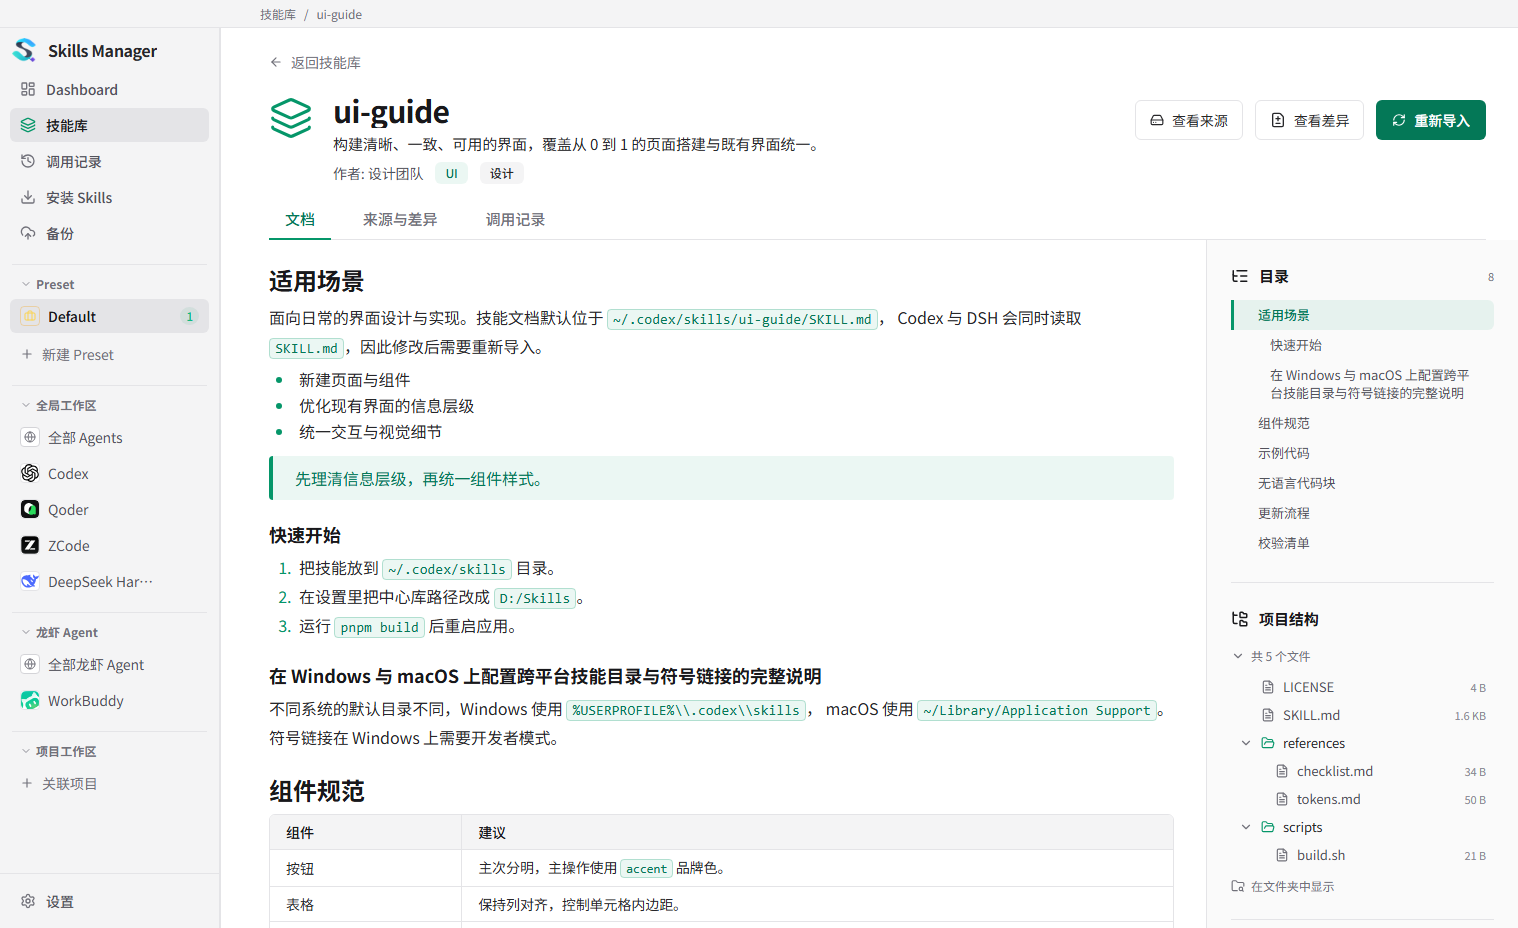
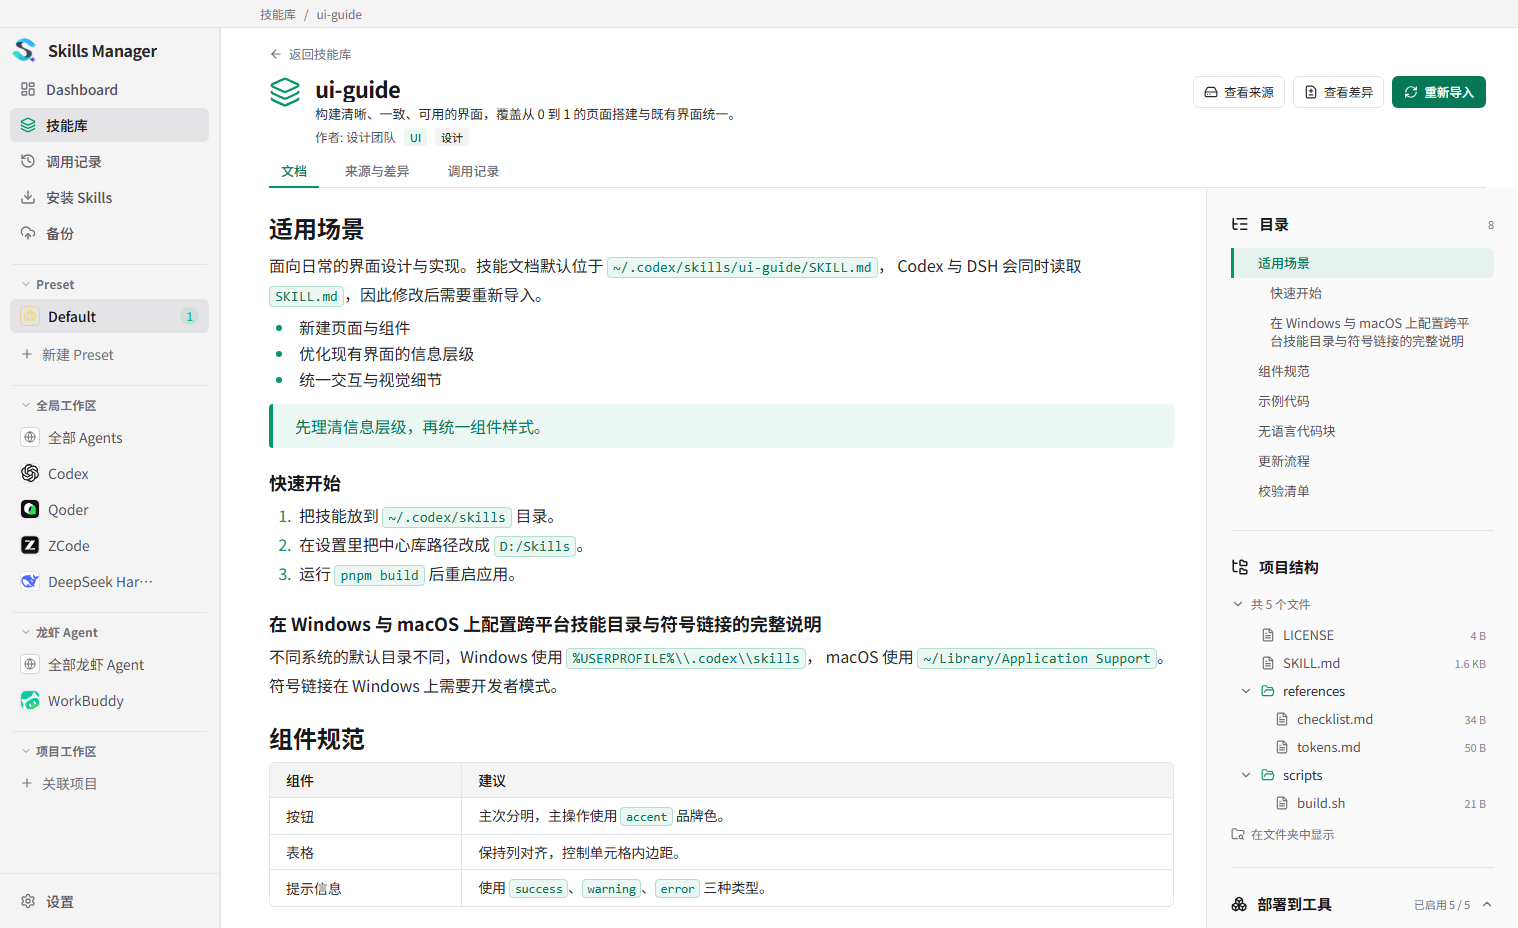
feat: 详情页页头缩小并在正文下滑后收成紧凑形态
顶部（基础态）整体缩小：
- 标题 30 → 22px、图标 44 → 32px、描述改为单行（悬停显示全文）
- 页签与操作按钮 40 → 32px，作者与分类徽章同步缩小，内边距收紧
- 页头高度约 200px → 160px

正文下滑超过 24px 后进入紧凑形态：
- 隐藏技能图标与描述，标题 17px，操作按钮与页签 28px，页头降到约 110px
- 回到顶部自动还原；切换页签时滚动归零也会还原
- 水平内边距保持不变，避免与正文左右错位；过渡 200ms

验证（真实浏览器断言，浅色与深色）：
- 顶部 160px / 标题 22px / 图标与描述可见 → 下滑后 110px / 标题 17px / 图标与描述隐藏
  → 回顶还原为 160px
- 证据：output/ui-rework/evidence/14_header_compact.png、14b_header_compact_dark.png
- lint、类型检查、构建通过

注：参考图 DETAIL-REF-01 原定 30px 标题，本次按用户要求缩小，已在 TODO 记录该差异。

diff --git a/src/components/SkillDetailPanel.tsx b/src/components/SkillDetailPanel.tsx
@@ -128,6 +128,8 @@ function SkillDetailPanelContent({
   // 部署开关默认收起：技能详情以阅读文档为主，部署状态由标题右侧的已启用计数概括。
   const [deployExpanded, setDeployExpanded] = useState(false);
   const [sourceOpenError, setSourceOpenError] = useState("");
+  // 正文向下滚动后页头收成紧凑形态，把纵向空间让给内容。
+  const [scrolled, setScrolled] = useState(false);
   const [activityItems, setActivityItems] = useState<ActivityEvent[] | null>(null);
   const [activityError, setActivityError] = useState("");
   const [activityRevision, setActivityRevision] = useState(0);
@@ -168,6 +170,16 @@ function SkillDetailPanelContent({
     observer.observe(shell);
     return () => observer.disconnect();
   }, []);
+
+  // 页头紧凑化：正文滚动超过一屏的起始偏移后收起图标、描述并缩小字号与内边距。
+  useEffect(() => {
+    const container = mainScrollRef.current;
+    if (!container) return;
+    const onScroll = () => setScrolled(container.scrollTop > 24);
+    container.addEventListener("scroll", onScroll, { passive: true });
+    onScroll();
+    return () => container.removeEventListener("scroll", onScroll);
+  }, [contentTab]);
 
   useEffect(() => {
     if (!drawerOpen || !compact) return;
@@ -548,41 +560,53 @@ function SkillDetailPanelContent({
         onClick={onClose}
       />
       <div ref={shellRef} className="skill-detail-shell absolute inset-0 z-10 flex min-h-0 flex-col overflow-hidden border-l border-border-subtle bg-surface">
-        {/* 页头：滚动时保持可访问 */}
-        <header inert={drawerOpen && compact} className="skill-detail-header shrink-0 bg-surface pl-12 pr-8 pt-6">
+        {/* 页头：滚动时保持可访问；正文下滑后收成紧凑形态 */}
+        <header
+          inert={drawerOpen && compact}
+          className={cn(
+            "skill-detail-header shrink-0 bg-surface pl-12 pr-8 transition-all duration-200",
+            scrolled ? "pt-2.5" : "pt-4"
+          )}
+        >
           <button
                 type="button"
                 onClick={onClose}
-                className="flex w-fit items-center gap-2 rounded-md text-[14px] leading-5 text-muted transition-colors outline-none hover:text-secondary focus-visible:outline focus-visible:outline-accent"
+                className="flex w-fit items-center gap-1.5 rounded-md text-[12.5px] leading-5 text-muted transition-colors outline-none hover:text-secondary focus-visible:outline focus-visible:outline-accent"
               >
                 <ArrowLeft className="h-3.5 w-3.5" />
                 {t("mySkills.detail.back")}
           </button>
-          <div className="skill-detail-heading-row mt-5 flex min-w-0 items-start justify-between gap-6">
-            <div className="flex min-w-0 flex-1 items-start gap-5">
-              <Layers className="mt-1 h-11 w-11 shrink-0 text-accent" strokeWidth={1.7} aria-hidden="true" />
+          <div className={cn("skill-detail-heading-row flex min-w-0 items-start justify-between gap-6 transition-all duration-200", scrolled ? "mt-1" : "mt-2.5")}>
+            <div className="flex min-w-0 flex-1 items-start gap-3.5">
+              {!scrolled && <Layers className="mt-0.5 h-8 w-8 shrink-0 text-accent" strokeWidth={1.7} aria-hidden="true" />}
               <div className="min-w-0">
-              <div className="flex min-w-0 flex-wrap items-center gap-3">
-                <h2 title={skill.name} className="min-w-0 line-clamp-2 break-words text-[30px] font-semibold leading-9 tracking-tight text-primary">
+              <div className="flex min-w-0 flex-wrap items-center gap-2.5">
+                <h2
+                  title={skill.name}
+                  className={cn(
+                    "min-w-0 break-words font-semibold tracking-tight text-primary transition-all duration-200",
+                    scrolled ? "line-clamp-1 text-[17px] leading-6" : "line-clamp-2 text-[22px] leading-7"
+                  )}
+                >
                   {skill.name}
                 </h2>
                 {skill.update_status === "update_available" && (
-                  <span className="rounded-md bg-amber-500/10 px-2 py-1 text-[12px] font-medium text-amber-700 dark:text-amber-300">
+                  <span className="rounded-md bg-amber-500/10 px-2 py-0.5 text-[11px] font-medium text-amber-700 dark:text-amber-300">
                     {t("mySkills.detail.badgeUpdateAvailable")}
                   </span>
                 )}
               </div>
-              {skill.description && (
-                <p className="mt-1 line-clamp-2 text-[15px] leading-6 text-secondary">{skill.description}</p>
+              {!scrolled && skill.description && (
+                <p className="mt-0.5 line-clamp-1 text-[13px] leading-5 text-secondary" title={skill.description}>{skill.description}</p>
               )}
-              <div className="mt-1.5 flex flex-wrap items-center gap-3 text-[14px] leading-5 text-tertiary">
+              <div className={cn("flex flex-wrap items-center gap-2 text-[12.5px] leading-4 text-tertiary", scrolled ? "mt-0.5" : "mt-1")}>
                 <span className="max-w-full break-words" title={skill.author_source ?? undefined}>
                   {t("mySkills.author")}: {skill.author || t("mySkills.authorMissing")}
                 </span>
                 {skill.tags.map((tag, index) => (
                   <span
                     key={tag}
-                    className={cn("inline-flex items-center rounded-md px-2.5 py-0.5 text-[12px] font-medium leading-[18px]", index === 0 ? "bg-accent-bg text-accent-dark dark:text-accent-light" : "bg-surface-hover text-secondary")}
+                    className={cn("inline-flex items-center rounded px-1.5 py-px text-[11px] font-medium leading-4", index === 0 ? "bg-accent-bg text-accent-dark dark:text-accent-light" : "bg-surface-hover text-secondary")}
                   >
                     {tag}
                   </span>
@@ -590,30 +614,30 @@ function SkillDetailPanelContent({
               </div>
               </div>
             </div>
-            <div className="skill-detail-actions flex shrink-0 flex-wrap items-center justify-end gap-3 pt-2">
+            <div className={cn("skill-detail-actions flex shrink-0 flex-wrap items-center justify-end gap-2", scrolled ? "pt-0" : "pt-0.5")}>
               <button type="button" onClick={() => openComparison("source")} disabled={!supportsSourceDiff}
                 title={!supportsSourceDiff ? t("mySkills.detail.noSource") : undefined}
-                className="inline-flex h-10 items-center gap-2 rounded-md border border-border-subtle bg-surface px-3.5 text-[14px] text-secondary outline-none hover:bg-surface-hover focus-visible:ring-2 focus-visible:ring-accent disabled:opacity-40">
+                className={cn("inline-flex items-center gap-1.5 rounded-md border border-border-subtle bg-surface text-secondary outline-none hover:bg-surface-hover focus-visible:ring-2 focus-visible:ring-accent disabled:opacity-40", scrolled ? "h-7 px-2 text-[12px]" : "h-8 px-2.5 text-[12.5px]")}>
                 {sourceIcon(skill.source_type)}{t("mySkills.detail.viewSource")}
               </button>
               <button type="button" onClick={() => openComparison("diff")} disabled={!supportsSourceDiff}
                 title={!supportsSourceDiff ? t("mySkills.detail.noSource") : undefined}
-                className="inline-flex h-10 items-center gap-2 rounded-md border border-border-subtle bg-surface px-3.5 text-[14px] text-secondary outline-none hover:bg-surface-hover focus-visible:ring-2 focus-visible:ring-accent disabled:opacity-40">
-                <FileDiff className="h-4 w-4" />{t("mySkills.detail.viewDiff")}
+                className={cn("inline-flex items-center gap-1.5 rounded-md border border-border-subtle bg-surface text-secondary outline-none hover:bg-surface-hover focus-visible:ring-2 focus-visible:ring-accent disabled:opacity-40", scrolled ? "h-7 px-2 text-[12px]" : "h-8 px-2.5 text-[12.5px]")}>
+                <FileDiff className="h-3.5 w-3.5" />{t("mySkills.detail.viewDiff")}
               </button>
               {hasUpdateSource && onUpdate ? (
                 <button
                   type="button"
                   onClick={runUpdate}
                   disabled={updateBusy || busyAction === `check:${skill.id}`}
-                  className="inline-flex h-10 items-center gap-2 rounded-md bg-emerald-700 px-4 text-[14px] font-medium text-white outline-none hover:bg-emerald-800 focus-visible:ring-2 focus-visible:ring-accent disabled:cursor-not-allowed disabled:opacity-60"
+                  className={cn("inline-flex items-center gap-1.5 rounded-md bg-emerald-700 font-medium text-white outline-none hover:bg-emerald-800 focus-visible:ring-2 focus-visible:ring-accent disabled:cursor-not-allowed disabled:opacity-60", scrolled ? "h-7 px-2.5 text-[12px]" : "h-8 px-3 text-[12.5px]")}
                 >
                   <RefreshCw className={cn("h-3.5 w-3.5", updateBusy && "animate-spin")} />
                   {updateBusy ? t("mySkills.detail.updating") : updateLabel}
                 </button>
               ) : (
                 <span
-                  className="inline-flex h-10 items-center gap-2 rounded-md border border-border-subtle px-3 text-[13px] text-muted"
+                  className={cn("inline-flex items-center gap-1.5 rounded-md border border-border-subtle text-muted", scrolled ? "h-7 px-2 text-[12px]" : "h-8 px-2.5 text-[12.5px]")}
                   title={t("mySkills.detail.noSource")}
                 >
                   <RefreshCw className="h-3.5 w-3.5" />
@@ -623,7 +647,7 @@ function SkillDetailPanelContent({
               {compact && <button
                 type="button"
                 onClick={() => setDrawerOpen(true)}
-                className="skill-detail-sidebar-toggle rounded-md border border-border-subtle p-2 text-muted outline-none hover:bg-surface-hover focus-visible:ring-2 focus-visible:ring-accent"
+                className="skill-detail-sidebar-toggle rounded-md border border-border-subtle p-1 text-muted outline-none hover:bg-surface-hover focus-visible:ring-2 focus-visible:ring-accent"
                 aria-label={t("mySkills.detail.sidebar")}
               >
                 <PanelRightOpen className="h-4 w-4" />
@@ -631,7 +655,7 @@ function SkillDetailPanelContent({
             </div>
           </div>
           {/* 页签层级：文档 / 来源与差异 / 调用记录 */}
-          <nav className="mt-4 flex items-center gap-4 border-b border-border-subtle" aria-label={t("mySkills.detail.doc")}>
+          <nav className={cn("flex items-center gap-3.5 border-b border-border-subtle transition-all duration-200", scrolled ? "mt-1" : "mt-2.5")} aria-label={t("mySkills.detail.doc")}>
             {([
               ["doc", t("mySkills.detail.tabDoc")],
               ...(supportsSourceDiff ? [["sourceDiff", t("mySkills.detail.tabSourceDiff")] as [ContentTab, string]] : []),
@@ -649,7 +673,8 @@ function SkillDetailPanelContent({
                 }}
                 aria-current={contentTab === tab ? "page" : undefined}
                 className={cn(
-                  "-mb-px inline-flex h-10 items-center border-b-2 px-4 text-[15px] font-medium outline-none focus-visible:ring-2 focus-visible:ring-accent",
+                  "-mb-px inline-flex items-center border-b-2 px-3 font-medium outline-none transition-all duration-200 focus-visible:ring-2 focus-visible:ring-accent",
+                  scrolled ? "h-7 text-[12.5px]" : "h-8 text-[13px]",
                   contentTab === tab
                     ? "border-accent text-accent-dark dark:text-accent-light"
                     : "border-transparent text-muted hover:text-secondary"

diff --git a/TODO.md b/TODO.md
@@ -358,3 +358,4 @@ WorkBuddy 顶层事件解析已实现；样本测试覆盖 `callId` 关联、重
 - [x] REWORK-12：调用记录 UI 对齐参考图（浅色 + 深色）。每行以工具图标起头，与参考图右栏的工具行同构；展开行使用参考图「目录」选中态同款的浅绿底 + 3px 左侧绿线；触发方式徽章在浅色用深色文字、深色用浅色文字。深色断言：展开底 `rgba(16,185,129,0.08)`、左线 `rgb(16,185,129)`/3px；证据 `output/ui-rework/evidence/08～11`、`05_activity_page_light`、`05b_activity_page_light_detail`。
 - [x] REWORK-13：修复「打开文件」点了没反应。根因是桌面外壳用 `ELECTRON_RUN_AS_NODE=1` 拉起本地服务，该变量继续传给被打开的程序；本机 `.md` 默认程序是 Typora（Electron 应用），在该变量下会以 Node 模式启动、不显示窗口（用工程内 `electron.exe` 实测：带该变量时 `require('electron')` 抛错、`process.type` 为空；不带时 `process.type=browser`）。修复：打开前清理 Electron 注入的环境变量；打开方式改为候选序列并可回退（Windows 定位用 `explorer.exe "/select," <路径>` 两参数，避免含空格路径解析失败）；等待 `spawn`/`error` 并把真实失败原因返回界面，不再静默成功。新增 2 项单测。修复后「Typora 实际弹窗」需用户在本机确认（本机工具环境无法启动桌面程序）。
 - [x] REWORK-14：修好解析器后「部分读取」提示不消失。根因是 `scanned_files` 缓存了每个文件的错误计数，文件内容未变时扫描器直接复用旧计数，旧版本的错误数会永久残留。修复：缓存增加 `parser_version` 列（旧库启动时自动补列、默认 0），版本不一致的文件强制重读一次；`PARSER_VERSION` 在修复解析缺陷时递增。真实日志复核：全新缓存下五款来源全部 `ready`、错误 0（codex 255／dsh 24／zcode 1／qoder 58／workbuddy 440，共 147 条记录）；旧库升级路径（错误计数 24／440 + 删掉版本列）重新扫描后降为 0。因此界面上黄色的「部分读取 · N 个读取问题」在重启应用并完成一次扫描后不再出现，无需改 UI 文案或删除诊断提示。
+- [x] REWORK-15：详情页页头缩小 + 下滑后收成紧凑形态。基础态：标题 30 → 22px、图标 44 → 32px、描述改单行（悬停看全文）、页签与操作按钮 40 → 32px、内边距收紧，页头高度约 200 → 160px。正文下滑超过 24px 后：隐藏图标与描述、标题 17px、按钮与页签 28px、页头降到约 110px；回到顶部自动还原。真实浏览器断言：顶部 160px / 标题 22px / 图标与描述在 → 下滑后 110px / 标题 17px / 图标与描述不在 → 回顶还原为 160px；浅色与深色截图 `output/ui-rework/evidence/14_header_compact`、`14b_header_compact_dark`。此项与参考图的 30px 标题尺寸不同，按用户要求缩小。

diff --git a/ACCEPTANCE.md b/ACCEPTANCE.md
@@ -141,8 +141,9 @@
 | 调用记录页样式 | 记录区无大圆角卡片（`rounded-xl` 计数 0）；统计为扁平数字行；6 条记录 | 通过 |
 | 调用记录对齐参考图（浅色 + 深色） | 每行以工具图标起头（与参考图右栏工具行一致）；展开态为浅绿底 + 3px 左侧绿线（与参考图"目录"选中态一致）。深色断言：展开底 `rgba(16,185,129,0.08)`、左线 `rgb(16,185,129)` / 3px；浅色断言徽章与正文对比度正常 | 通过 |
 | 近期动态含调用记录 | 仪表盘「近期动态」共 7 行：1 条技能更新 + 6 条调用记录；6 行含工具名与触发方式徽章；每行均有时间；区块右上角有「查看全部」 | 通过 |
+| 详情页页头缩小与滚动紧凑化 | 顶部：页头 160px、标题 22px、图标与描述可见、操作按钮 32px；正文下滑后：页头 110px、标题 17px、图标与描述隐藏、按钮 28px；回到顶部还原为 160px。浅色与深色均核对 | 通过 |
 
-截图证据：`output/ui-rework/evidence/`（`01_detail_light`、`01b_detail_sidebar_bottom`、`02_activity_inline`、`03_activity_detail`、`04_detail_dark`、`05_activity_page_light`、`05b_activity_page_light_detail`、`06_activity_deeplink`、`07_dashboard_light`、`08_activity_inline_dark`、`09_activity_detail_dark`、`10_activity_page_dark`、`11_activity_page_dark_detail`）；结构化断言见同目录 `report.json`。
+截图证据：`output/ui-rework/evidence/`（`01_detail_light`、`01b_detail_sidebar_bottom`、`02_activity_inline`、`03_activity_detail`、`04_detail_dark`、`05_activity_page_light`、`05b_activity_page_light_detail`、`06_activity_deeplink`、`07_dashboard_light`、`08_activity_inline_dark`、`09_activity_detail_dark`、`10_activity_page_dark`、`11_activity_page_dark_detail`、`14_header_compact`、`14b_header_compact_dark`）；结构化断言见同目录 `report.json`。
 
 ### 3.1 「打开文件」无法打开（第三轮修复）
 
